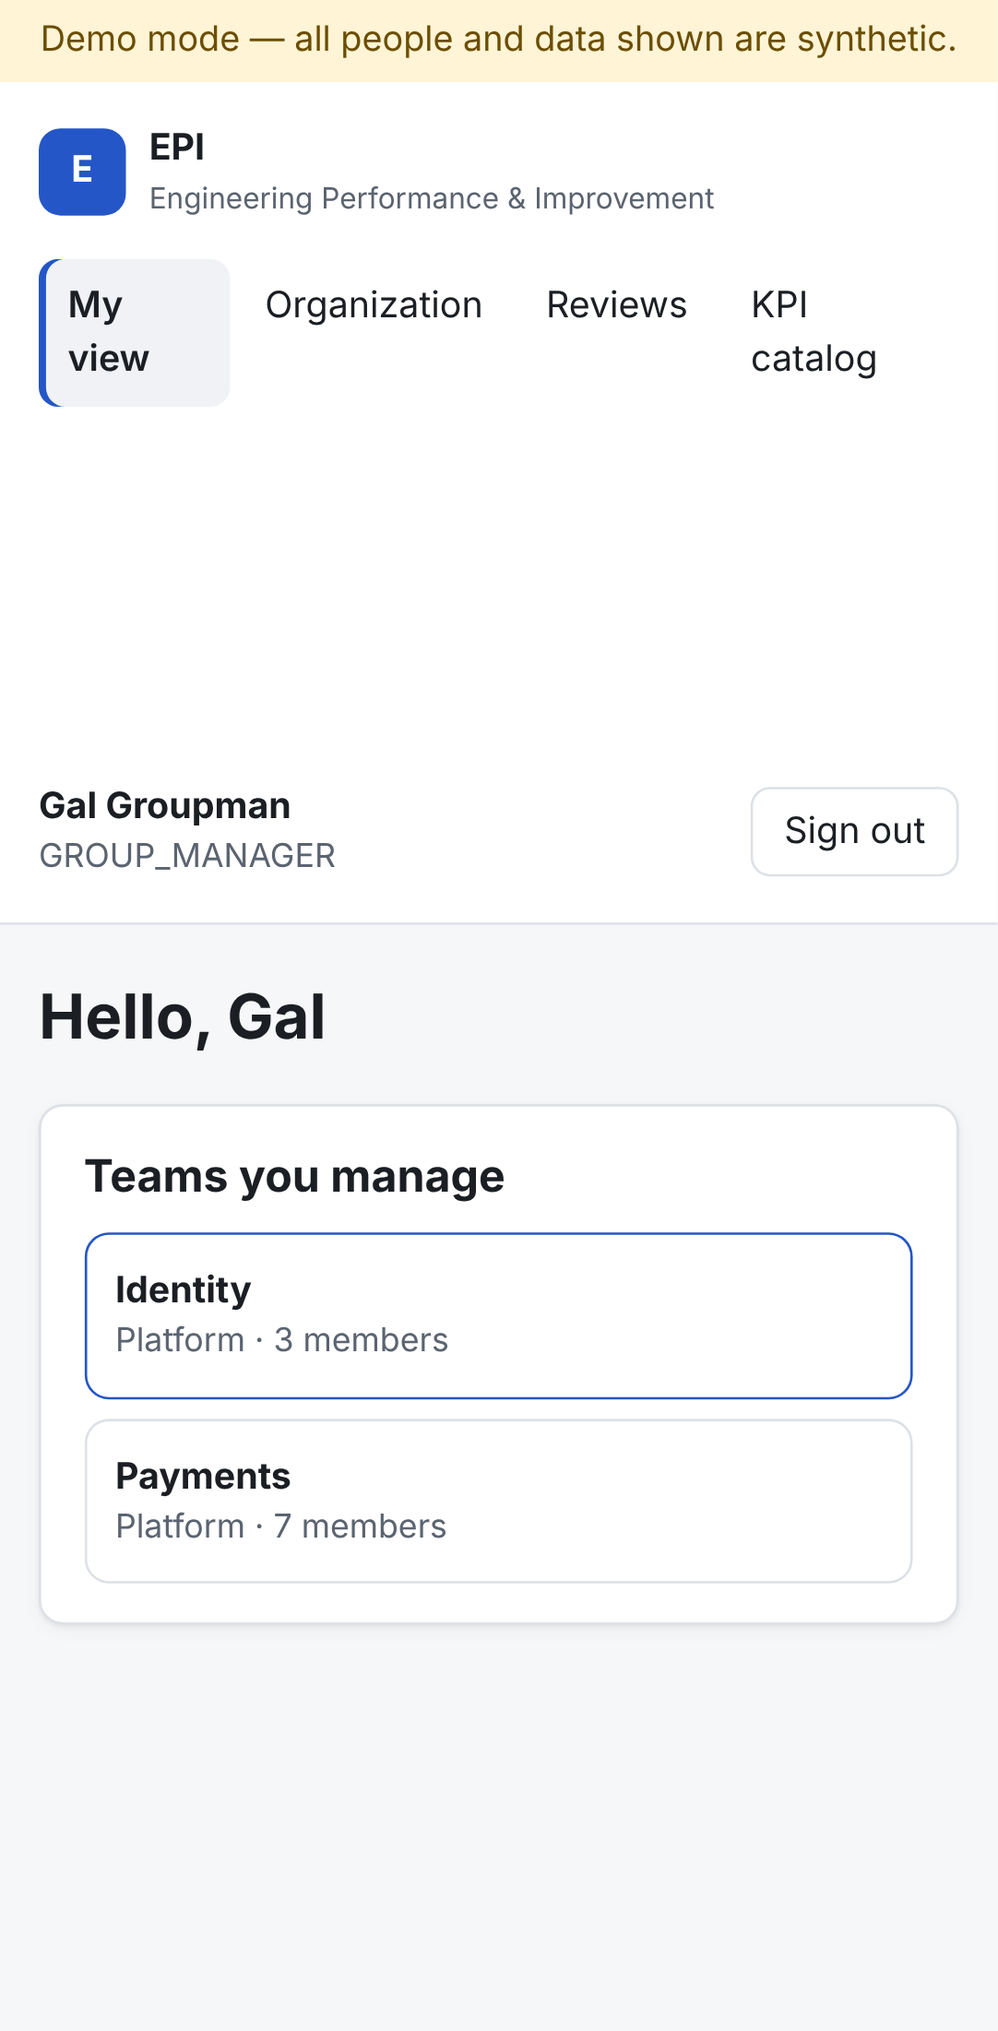
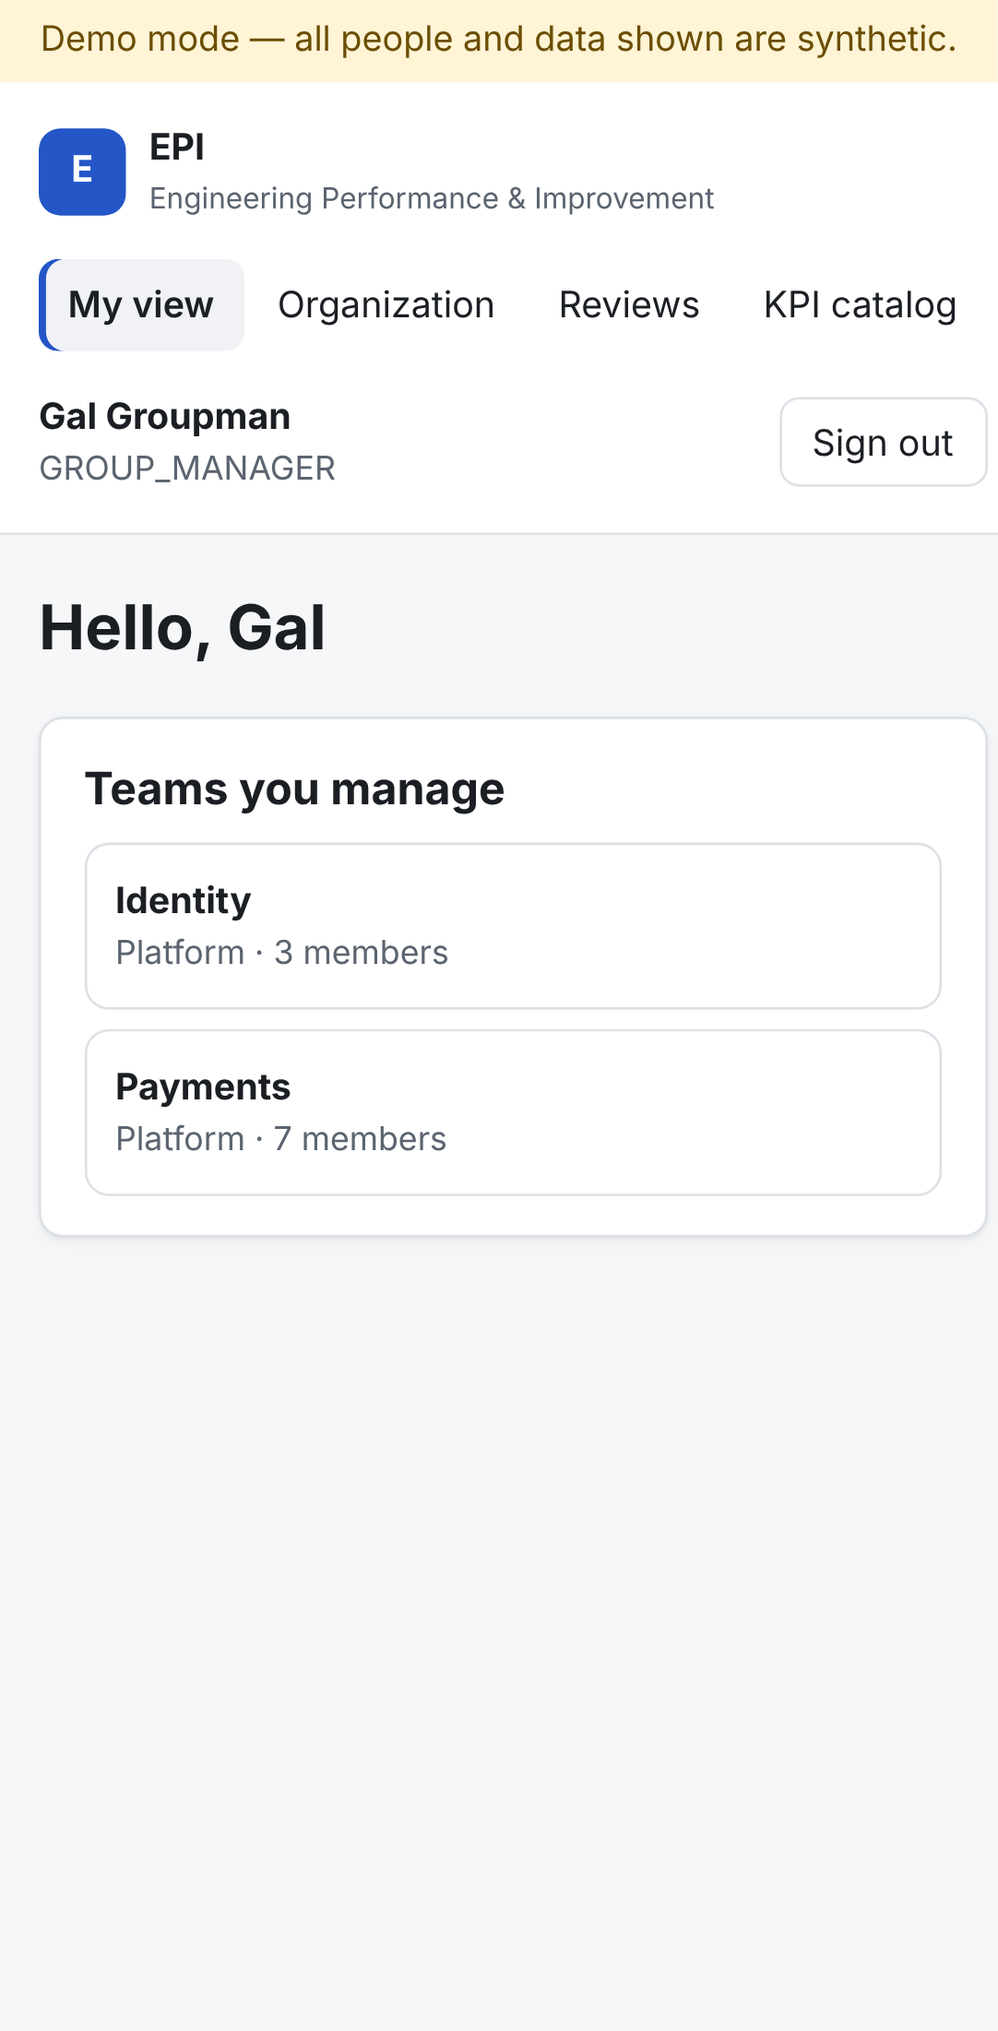
test(e2e): add admin flow with fake Jira/GitLab; refresh screenshots and docs
scripts/e2e-admin.sh runs EPI against in-process fake sources (synthetic
data) configured through the CLI; Playwright syncs both sources, maps
identities and a status, checks data quality and non-admin denial.
Admin screenshots 25-28 and refreshed mobile shots; mobile layout no
longer leaves a gap under the navigation. Docs: ADR-019, backlog,
project state, next actions, test status, resume point.

diff --git a/e2e/admin.spec.ts b/e2e/admin.spec.ts
@@ -1,0 +1,78 @@
+import { expect, Page, test } from '@playwright/test';
+
+/**
+ * Administration flow against fake Jira/GitLab (synthetic data). Run via scripts/e2e-admin.sh.
+ * With EPI_E2E_SCREENSHOTS=--screenshots it also refreshes the admin screenshots in docs/.
+ */
+test.skip(!process.env.EPI_E2E_ADMIN, 'requires scripts/e2e-admin.sh (fake Jira/GitLab)');
+const shots = process.env.EPI_E2E_SCREENSHOTS === '--screenshots';
+
+async function shot(page: Page, name: string) {
+  if (!shots) return;
+  await page.waitForTimeout(300);
+  await page.screenshot({ path: `docs/screenshots/${name}.png`, fullPage: true });
+}
+
+test('admin syncs sources, maps identities and statuses, and sees data quality', async ({
+  page,
+}) => {
+  await page.setViewportSize({ width: 1366, height: 900 });
+  await page.goto('/');
+  await page.getByRole('button', { name: /^Avery Admin/ }).click();
+  await page.getByRole('link', { name: 'Administration' }).click();
+
+  // Before any sync: data quality is honest about missing data.
+  await expect(page.getByRole('heading', { name: 'Freshness' })).toBeVisible();
+  await expect(page.getByText(/Stale/).first()).toBeVisible();
+
+  // Integrations: sync both sources.
+  await page.getByRole('link', { name: 'Integrations' }).click();
+  const rows = page.getByRole('row');
+  for (const name of ['jira-pilot', 'gitlab-pilot']) {
+    await rows.filter({ hasText: name }).getByRole('button', { name: 'Sync now' }).click();
+    await expect(rows.filter({ hasText: name }).getByText('succeeded').first()).toBeVisible({
+      timeout: 20_000,
+    });
+  }
+  await expect(page.getByText(/24 issues · 24 new/)).toBeVisible();
+  await expect(page.getByText(/10 MRs · 10 new · 10 review requests/)).toBeVisible();
+  await shot(page, '25-admin-integrations');
+
+  // Identity mapping: map Jira and GitLab accounts of Dana to the synthetic person Dana Dev.
+  await page.getByRole('link', { name: 'Identity mapping' }).click();
+  await expect(page.getByText('Contractor Casey', { exact: true })).toBeVisible();
+  const map = async (account: RegExp, person: string) => {
+    const row = page.getByRole('row').filter({ hasText: account });
+    await row.getByRole('searchbox').fill(person.split(' ')[0]);
+    await row.getByRole('button', { name: person, exact: true }).click();
+    // The list reload also shows a role=status "Loading…"; target the confirmation itself.
+    await expect(page.locator('p.ok-text')).toContainText(`to ${person}`);
+  };
+  await shot(page, '26-admin-identity-mapping');
+  await map(/JIRAUSER10101/, 'Dana Dev');
+  await map(/7001/, 'Dana Dev');
+  await map(/JIRAUSER10102/, 'Eli Engineer');
+  await page.getByRole('button', { name: 'Mapped', exact: true }).click();
+  await expect(page.getByRole('row').filter({ hasText: 'JIRAUSER10101' })).toContainText(
+    'Dana Dev',
+  );
+
+  // Status mappings: "In Review" is inferred as In progress; the admin sets Review.
+  await page.getByRole('link', { name: 'Status mappings' }).click();
+  await page.getByLabel('Category for In Review').selectOption('REVIEW');
+  await expect(page.getByText(/“In Review” saved/)).toBeVisible();
+  await shot(page, '27-admin-status-mappings');
+
+  // Data quality reflects the work.
+  await page.getByRole('link', { name: 'Data quality' }).click();
+  await expect(page.getByText('Fresh').first()).toBeVisible();
+  await expect(page.getByText('67%').or(page.getByText('66.7%'))).toBeVisible(); // 16 of 24 items
+  await shot(page, '28-admin-data-quality');
+
+  // A non-admin never sees administration.
+  await page.getByRole('button', { name: 'Sign out' }).click();
+  await page.getByRole('button', { name: /^Eli Engineer/ }).click();
+  await expect(page.getByRole('link', { name: 'Administration' })).toHaveCount(0);
+  await page.goto('/admin/identities');
+  await expect(page.getByText('Administrator role required.')).toBeVisible();
+});

diff --git a/apps/web/src/pages/admin/DataQuality.tsx b/apps/web/src/pages/admin/DataQuality.tsx
@@ -4,6 +4,8 @@ import { ErrorState, Loading } from '../../components/States';
 import { useApi } from '../../useApi';
 import { formatTime } from './Admin';
 
+const plural = (n: number, word: string) => `${n} ${word}${n === 1 ? '' : 's'}`;
+
 export function pctLabel(p: number | null): string {
   return p === null ? 'N/A' : `${p}%`;
 }
@@ -79,13 +81,13 @@ export function DataQualityTab() {
           <Metric
             label="Jira assignees mapped"
             value={pctLabel(d.jira.assigneeCoveragePct)}
-            hint={`${d.jira.mappedAssignees} of ${d.jira.withAssignee} assigned items · ${d.jira.unmappedAccounts} unmapped accounts`}
+            hint={`${d.jira.mappedAssignees} of ${d.jira.withAssignee} assigned items · ${plural(d.jira.unmappedAccounts, 'unmapped account')}`}
             warn={lowCoverage(d.jira.assigneeCoveragePct)}
           />
           <Metric
             label="GitLab MR authors mapped"
             value={pctLabel(d.gitlab.authorCoveragePct)}
-            hint={`${d.gitlab.mappedAuthors} of ${d.gitlab.mergeRequests} MRs · ${d.gitlab.unmappedAccounts} unmapped accounts`}
+            hint={`${d.gitlab.mappedAuthors} of ${d.gitlab.mergeRequests} MRs · ${plural(d.gitlab.unmappedAccounts, 'unmapped account')}`}
             warn={lowCoverage(d.gitlab.authorCoveragePct)}
           />
           <Metric

diff --git a/apps/api/test/fake-jira.ts b/apps/api/test/fake-jira.ts
@@ -52,6 +52,7 @@ export class FakeJira {
       project?: string;
       type?: string;
       assignee?: string | null;
+      assigneeName?: string;
       storyPoints?: number | null;
       createdDaysAgo: number;
       transitions: [statusId: string, daysAgo: number][];
@@ -67,7 +68,11 @@ export class FakeJira {
         assignee:
           opts.assignee === null
             ? null
-            : { key: opts.assignee ?? 'JIRAUSER1', name: 'synthetic', displayName: 'Synthetic' },
+            : {
+                key: opts.assignee ?? 'JIRAUSER1',
+                name: 'synthetic',
+                displayName: opts.assigneeName ?? 'Synthetic',
+              },
         project: { key: opts.project ?? 'ENG' },
         created: jiraDate(created),
         updated: jiraDate(created),

diff --git a/apps/web/src/styles.css b/apps/web/src/styles.css
@@ -618,6 +618,7 @@ code {
 @media (max-width: 760px) {
   .shell {
     grid-template-columns: 1fr;
+    grid-template-rows: auto 1fr;
   }
   .sidebar {
     border-inline-end: 0;

diff --git a/docs/PROJECT_STATE.md b/docs/PROJECT_STATE.md
@@ -1,6 +1,6 @@
 # Project state — what actually works (2026-10-12)
 
-**Milestone:** On `main`: vertical slice 1, Keycloak SSO (EPI-003) and demo Keycloak. EPI-006 Jira collector (PR #4), screenshots (PR #6), EPI-007 GitLab collector. Demo uses synthetic data. Not production-ready (no real Jira/GitLab connected, no offline bundle).
+**Milestone:** On `main`: vertical slice 1, Keycloak SSO (EPI-003) and demo Keycloak. EPI-006 Jira collector (PR #4), screenshots (PR #6), EPI-007 GitLab collector, EPI-008 identity mapping & admin screens. Demo uses synthetic data. Not production-ready (no real Jira/GitLab connected, no offline bundle).
 
 ## Working and verified (tests in `TEST_STATUS.md`)
 
@@ -10,6 +10,7 @@
 - **SSO (EPI-003):** Keycloak/OIDC sign-in (code + PKCE, state, nonce, browser binding, no token storage, no auto-provisioning), IdP logout, production mode gated on OIDC + https. Verified against a real ephemeral Keycloak (API integration + browser E2E). See `KEYCLOAK.md`.
 - **Jira DC collector (EPI-006):** read-only REST client (paging, retries, timeouts), relative-time incremental JQL with 48 h overlap and 6-month backfill, status mapping by ID (inferred + admin override), metadata-only idempotent upserts, safe cursor, one run per connection; CLI `jira-add/check/sync`; admin API for integrations, sync runs and status mappings. Verified against a fake Jira DC (see `JIRA.md`).
 - **GitLab collector (EPI-007):** read-only REST v4 (`read_api`), MRs + reviewer requests/notes/approvals as metadata only, bot/self exclusion, Jira-key links with confidence, `updated_after` incremental with overlap, CLI `gitlab-add/check/sync`, admin sync dispatch. Feeds Review Waiting Time end to end. See `GITLAB.md`.
+- **Administration (EPI-008):** admin-only screens for integrations (Sync now, run history), identity mapping (map/unmap Jira & GitLab accounts to people, re-attributing synced data, audited), status mappings and data quality (freshness, coverage, link rate, unmapped statuses). Verified end to end with `scripts/e2e-admin.sh`.
 - **Demo SSO:** bundled dev-mode Keycloak with generated per-install users (`./epi.sh credentials`).
 - **Auth & RBAC:** opaque server-side sessions (HttpOnly, SameSite=Lax, CSRF header for mutations); demo login only in demo mode. Scope resolution from EPI DB; out-of-scope = 404; small-group suppression (default 5) for aggregate-only viewers; admin sees structure but not KPIs/reviews.
 - **API:** `/health/*`, `/api/v1/me`, organization tree, groups/teams/developers, KPI cards + catalog + explanation, reviews (list, create/update/submit), demo auth. OpenAPI/Swagger at `/api/docs`.
@@ -19,9 +20,9 @@
 ## Not implemented yet / known limitations
 
 - No real Keycloak realm connected yet (needs C1). Demo Compose has no bundled Keycloak (ADR-015). Admin screen for identity mapping pending (EPI-008).
-- No real Jira connected (needs B1–B3); identity-mapping and data-quality UI (EPI-008); deleted-issue reconciliation; sprint data.
+- No real Jira connected (needs B1–B3); deleted-issue reconciliation; sprint data.
 - Offline bundle, `install`, `upgrade`, `offline-install` (EPI-012) — commands exit 2 with a message.
 - KPIs computed on request; `kpi_snapshots` not populated yet. Stratification by work type/complexity not shown in UI yet.
-- Admin CRUD screens (groups/teams/memberships/roles), audit viewer, sync status UI.
+- Admin CRUD for groups/teams/memberships/roles (next), audit viewer, scheduled daily sync.
 - Hebrew catalog not written (structure supports it). `PUT /reviews/{id}` replaced by idempotent `POST` upsert.
 - Images not pinned by digest; no SBOM/vulnerability scan (tools not installed).

diff --git a/docs/RESUME.md b/docs/RESUME.md
@@ -1,10 +1,10 @@
 # Resume point
 
-status: active — EPI-008 IN PROGRESS on `feature/identity-mapping`
+status: active — next unblocked task is EPI-004b (organization admin CRUD)
 
-- **main** contains: Phase 0, vertical slice 1, EPI-003 Keycloak SSO, demo Keycloak (PRs #1–#3), EPI-006 Jira collector, screenshots and EPI-007 GitLab collector (PRs #1–#7, main @ `88f89f2`).
-- **In progress:** `feature/identity-mapping` from main @ `88f89f2`. Steps: (1) migration: `source_accounts` + external IDs on work_items/merge_requests, collectors record them; (2) admin API: identities list/map/unmap with attribution backfill, unmapped accounts, user search, data-quality, all audited + RBAC tests; (3) admin UI (integrations + sync now, identity mapping, status mappings, data quality) + web tests; (4) e2e + screenshots, docs, CI, PR, merge. `git log` on the branch shows which steps are done.
-- **Validate before commit:** `EPI_IMAGE_REGISTRY=mirror.gcr.io bash scripts/ci.sh` (start `dockerd &` if the daemon is down). UI: `./epi.sh demo && pnpm run e2e`; SSO E2E with demo users: see TEST_STATUS.
+- **main** contains: Phase 0, vertical slice 1, EPI-003 Keycloak SSO, demo Keycloak (PRs #1–#3), EPI-006 Jira collector, screenshots and EPI-007 GitLab collector and EPI-008 identity mapping/admin screens (PRs #1–#8).
+- **Next exact action:** `git fetch origin && git checkout -b feature/org-admin origin/main`; implement `NEXT_ACTIONS.md` item 2 (API with RBAC/audit tests first, then admin screens, then E2E via `scripts/e2e-admin.sh`).
+- **Validate before commit:** `EPI_IMAGE_REGISTRY=mirror.gcr.io bash scripts/ci.sh` (start `dockerd &` if the daemon is down). UI: `./epi.sh demo && pnpm run e2e`; admin: `bash scripts/e2e-admin.sh`; SSO E2E with demo users: see TEST_STATUS.
 - **Standing approval:** when a task is complete and CI is fully green, open a PR to `main` and merge it (merge commit).
 - **Scheduler:** Routine `trig_01KXpTGZKMatHx36donkyqXL` wakes this session hourly at :32 (ADR-014).
 - **Environment notes:** Docker Hub rate-limited → `EPI_IMAGE_REGISTRY=mirror.gcr.io`; Keycloak image `quay.io/keycloak/keycloak:26.3.3`; Playwright browsers in `/opt/pw-browsers`.

diff --git a/docs/SCREENSHOTS.md b/docs/SCREENSHOTS.md
@@ -110,10 +110,31 @@ Captured 2026-10-12 from `./epi.sh demo` (Docker Compose, bundled demo Keycloak)
 
 ![OpenAPI / Swagger UI at /api/docs](screenshots/21-api-docs-swagger.png)
 
+
+## Administration (identity mapping and data quality)
+
+Captured by `scripts/e2e-admin.sh --screenshots`: EPI synced against in-process fake Jira DC and GitLab servers (synthetic data).
+
+### Administration › Integrations: Jira/GitLab connections, Sync now, recent runs (fake sources, synthetic data)
+
+![Administration › Integrations: Jira/GitLab connections, Sync now, recent runs (fake sources, synthetic data)](screenshots/25-admin-integrations.png)
+
+### Administration › Identity mapping: accounts seen in syncs, mapped to EPI people by search
+
+![Administration › Identity mapping: accounts seen in syncs, mapped to EPI people by search](screenshots/26-admin-identity-mapping.png)
+
+### Administration › Status mappings: Jira status → EPI category, inferred vs admin-confirmed
+
+![Administration › Status mappings: Jira status → EPI category, inferred vs admin-confirmed](screenshots/27-admin-status-mappings.png)
+
+### Administration › Data quality: freshness, identity coverage, MR-to-Jira links, unmapped statuses
+
+![Administration › Data quality: freshness, identity coverage, MR-to-Jira links, unmapped statuses](screenshots/28-admin-data-quality.png)
+
 ## How these were made
 
 1. `./epi.sh demo` (signs-in users from `./epi.sh credentials`).
 2. A Playwright script signs in as each demo role (demo sign-in and Keycloak SSO for `taylor`), navigates every screen at 1366×900, Pixel 7 and dark color scheme, and saves PNGs here; `screenshots/index.json` lists file → caption.
 3. No passwords appear in any screenshot (the Keycloak page is captured before the password is typed).
 
-Known UI nit visible in the mobile shots: the top navigation wraps “My view” onto two lines (tracked in `NEXT_ACTIONS.md`).
+Admin shots (25–28) come from `scripts/e2e-admin.sh --screenshots`; mobile shots were refreshed after the mobile navigation fix.

diff --git a/docs/TEST_STATUS.md b/docs/TEST_STATUS.md
@@ -4,6 +4,9 @@ Environment: cloud dev container, Ubuntu 24.04, Node 22.22.0, pnpm 10.28.0, Dock
 
 | When (UTC) | Command | Result |
 |---|---|---|
+| 2026-10-13 00:10 | `bash scripts/ci.sh` (branch `feature/identity-mapping`) | ✅ ALL CHECKS PASSED — **119 unit**, **22 web** (incl. 5 admin tabs), **70 integration** (RBAC 23, OIDC 16, Jira 10, GitLab 7, admin API 6, identity/data quality 8), build |
+| 2026-10-13 00:30 | `bash scripts/e2e-admin.sh` ×5 (Postgres + fake Jira/GitLab + EPI, Playwright) | ✅ 5/5 passed — Sync now (both sources), map 3 identities, set a status category, data quality shows coverage; non-admin blocked. Earlier the spec was **flaky (2 of 3 runs failed)**: the list's "Loading…" also has role=status; fixed by targeting the confirmation message |
+| 2026-10-13 00:05 | `./epi.sh build && ./epi.sh start`, then `pnpm run e2e` with demo SSO user | ✅ 9 passed, 3 skipped by design (admin spec needs e2e-admin.sh; mutating flow desktop-only) |
 | 2026-10-12 21:20 | `bash scripts/ci.sh` (branch `feature/gitlab-collector`) | ✅ ALL CHECKS PASSED — **119 unit** (incl. 20 GitLab mapper), 17 web, **62 integration** (RBAC 23, OIDC 16, Jira 10, GitLab 7, admin API 6), build |
 | 2026-10-12 20:45 | `bash scripts/ci.sh` (branch `feature/jira-collector`) | ✅ ALL CHECKS PASSED — **98 unit**, 17 web, **54 integration** (RBAC 23, OIDC 16, Jira collector 10, admin API 5), build |
 | 2026-10-12 20:40 | CLI smoke: `migrate`, `jira-add` (http refused / https saved), `jira-check` (missing secret), `jira-sync` (unreachable host) | ✅ actionable errors, non-zero exit codes, failed run recorded |

diff --git a/docs/BACKLOG.md b/docs/BACKLOG.md
@@ -16,7 +16,7 @@ Dependency graph: `001 → 002 → {003, 006, 007}`; `003 → {004, 005}`; `{006
 | EPI-003 | P0 | Keycloak OIDC login/session + tests | 1.5 | Done (tested with ephemeral Keycloak); real realm needs C1 | Code+PKCE BFF, state/nonce, secure cookie, CSRF, logout; tests with local Keycloak container. |
 | EPI-006 | P0 | Jira collector + mapping | 2.5 | Done against fake Jira DC; real reconciliation needs B1–B3 | Pagination, cursor, 48h overlap, idempotent upserts, retries; failed sync doesn't advance cursor. |
 | EPI-007 | P0 | GitLab collector + MR/review mapping | 2.0 | Done against fake GitLab; real reconciliation needs B4–B6 | Same as 006; bots/self comments excluded; MR↔issue regex links with confidence. |
-| EPI-008 | P0 | Identity mapping + data-quality view | 1.0 | Planned | Coverage %, unmapped identities listed; manual mapping audited. |
+| EPI-008 | P0 | Identity mapping + data-quality view | 1.0 | Done (API + admin UI, tested with fake sources) | Coverage %, unmapped identities listed; manual mapping audited. |
 | EPI-012 | P0 | Offline bundle, install tests, security/UAT | 3.0 | Planned | `bundle` + egress-blocked install; backup/restore tested; SBOM; pinned digests. |
 | EPI-013..016 | P1 | Competencies, self-review, dev plans, more KPIs, calibration | 12 | Phase 2 | Per spec §3 Phase 2. |
 | OPS-01 | P2 | Hourly resume scheduler scripts (`--dry-run`, **not enabled**) | 0.5 | Done (not enabled) | Lock, skip-when-active, bounded retries, logs; enablement requires approval C10. |

diff --git a/docs/NEXT_ACTIONS.md b/docs/NEXT_ACTIONS.md
@@ -1,7 +1,7 @@
 # Next actions (ordered)
 
 1. **Owner (when available):** Jira details B1–B3 (`JIRA.md` §1) and GitLab details B4–B6 (`GITLAB.md` §1) to run `jira-check`/`gitlab-check` and reconcile 20 issues + 10 MRs; Keycloak realm C1.
-2. **EPI-008** on `feature/identity-mapping` from `main`: admin UI + API for external identities (Jira/GitLab → EPI users, list unmapped IDs seen in syncs), integrations/sync-run/status-mapping screens, data-quality page (mapping coverage, unknown statuses, skipped issues, stale data); then admin CRUD for hierarchy/roles with audit.
-3. **EPI-012** pinned image digests, `bundle`/`offline-install`, egress-blocked install test, SBOM (needs approved tools).
+2. **EPI-004b admin CRUD** on `feature/org-admin` from `main`: API + screens to create/rename groups and teams, manage effective-dated team memberships (incl. transfers), role assignments and grades; every mutation audited; RBAC negative tests; keeps history (no hard deletes).
+3. **Scheduled sync:** in-process daily sync job (`sync.daily_hour_local`, default 02:00) with the same one-run guard; admin toggle; tests with a fake clock.
+4. **EPI-012** pinned image digests, `bundle`/`offline-install`, egress-blocked install test, SBOM (needs approved tools).
 
-- **UI nit:** on narrow screens the top navigation wraps “My view” (add `white-space: nowrap` / horizontal scroll to `.nav a`), then refresh `docs/SCREENSHOTS.md` mobile shots.

diff --git a/docs/DECISIONS.md b/docs/DECISIONS.md
@@ -92,3 +92,10 @@ Owner has no Keycloak and asked for ready-made users. `./epi.sh demo` adds `depl
 - **Bots:** GitLab `bot` flag, project/group bot naming, well-known bot names and a configurable list.
 - **Unmapped reviewers:** requests and notes keep the GitLab user ID (`actor_external_id`), so waits are measured for the author's team even before every reviewer is mapped; individual attribution still requires a verified identity.
 - **Shared sync-run helpers** (`ingestion/sync-runs.ts`) enforce the same cursor/overlap/one-run rules for Jira and GitLab.
+
+## ADR-019 · 2026-10-12 · Accepted — Identity mapping by verified source IDs, re-attributing history
+
+- People are linked to Jira/GitLab accounts only through explicit `external_identities` set by an administrator (or verified-e-mail SSO linking, ADR-016) — never by display name (spec §7).
+- Collectors store external IDs on records (`assignee_external_id`, `author_external_id`, `actor_external_id`) and list seen accounts in `source_accounts` (display names kept only for the admin mapping screen), so a mapping made later re-attributes existing data and an unmapping removes attribution; both are audited.
+- One account per person and source; bot accounts cannot be mapped.
+- Data quality is a first-class admin page: freshness (stale after 26 h), mapping coverage, MR-to-Jira link rate, statuses without category.

diff --git a/README.md b/README.md
@@ -34,7 +34,7 @@ A tour of every screen (sign-in, role-based homes, drill-down, KPI explanations,
 | Taylor Lead | Team lead (Payments) | Payments members, their KPIs; can write assessments |
 | Eli Engineer | Developer | Own profile/KPIs, Payments as an aggregate only |
 | Jo Small | Developer in a 3-person team | Team aggregate **suppressed** (privacy minimum 5) |
-| Avery Admin | Administrator | Structure only; no KPIs or private reviews |
+| Avery Admin | Administrator | Structure, integrations, identity mapping, data quality; no KPIs or private reviews |
 
 Every KPI card has **How calculated?** with the formula, population, exclusions, minimum sample, limitations and a worked example computed by the same engine.
 
